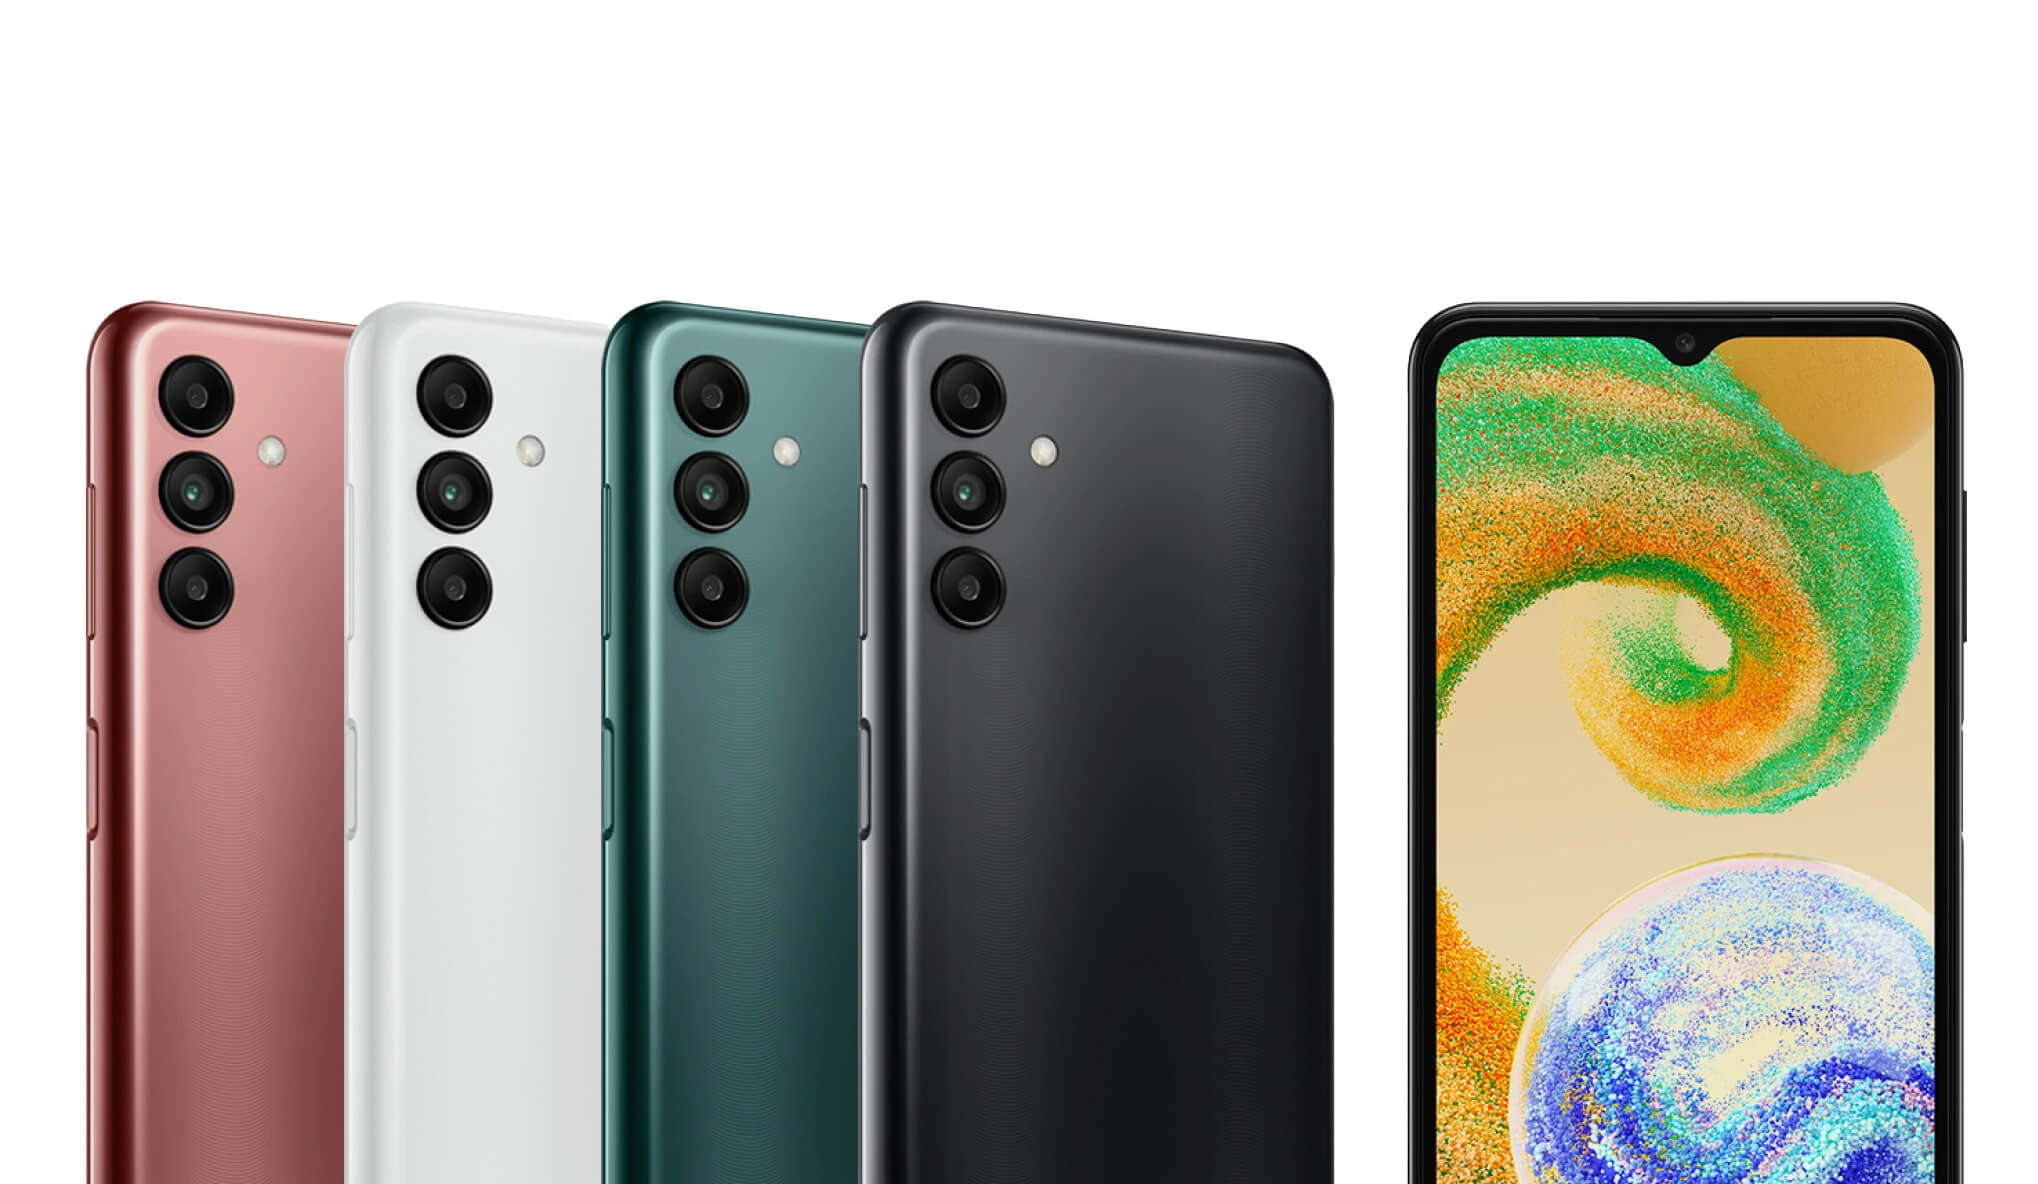
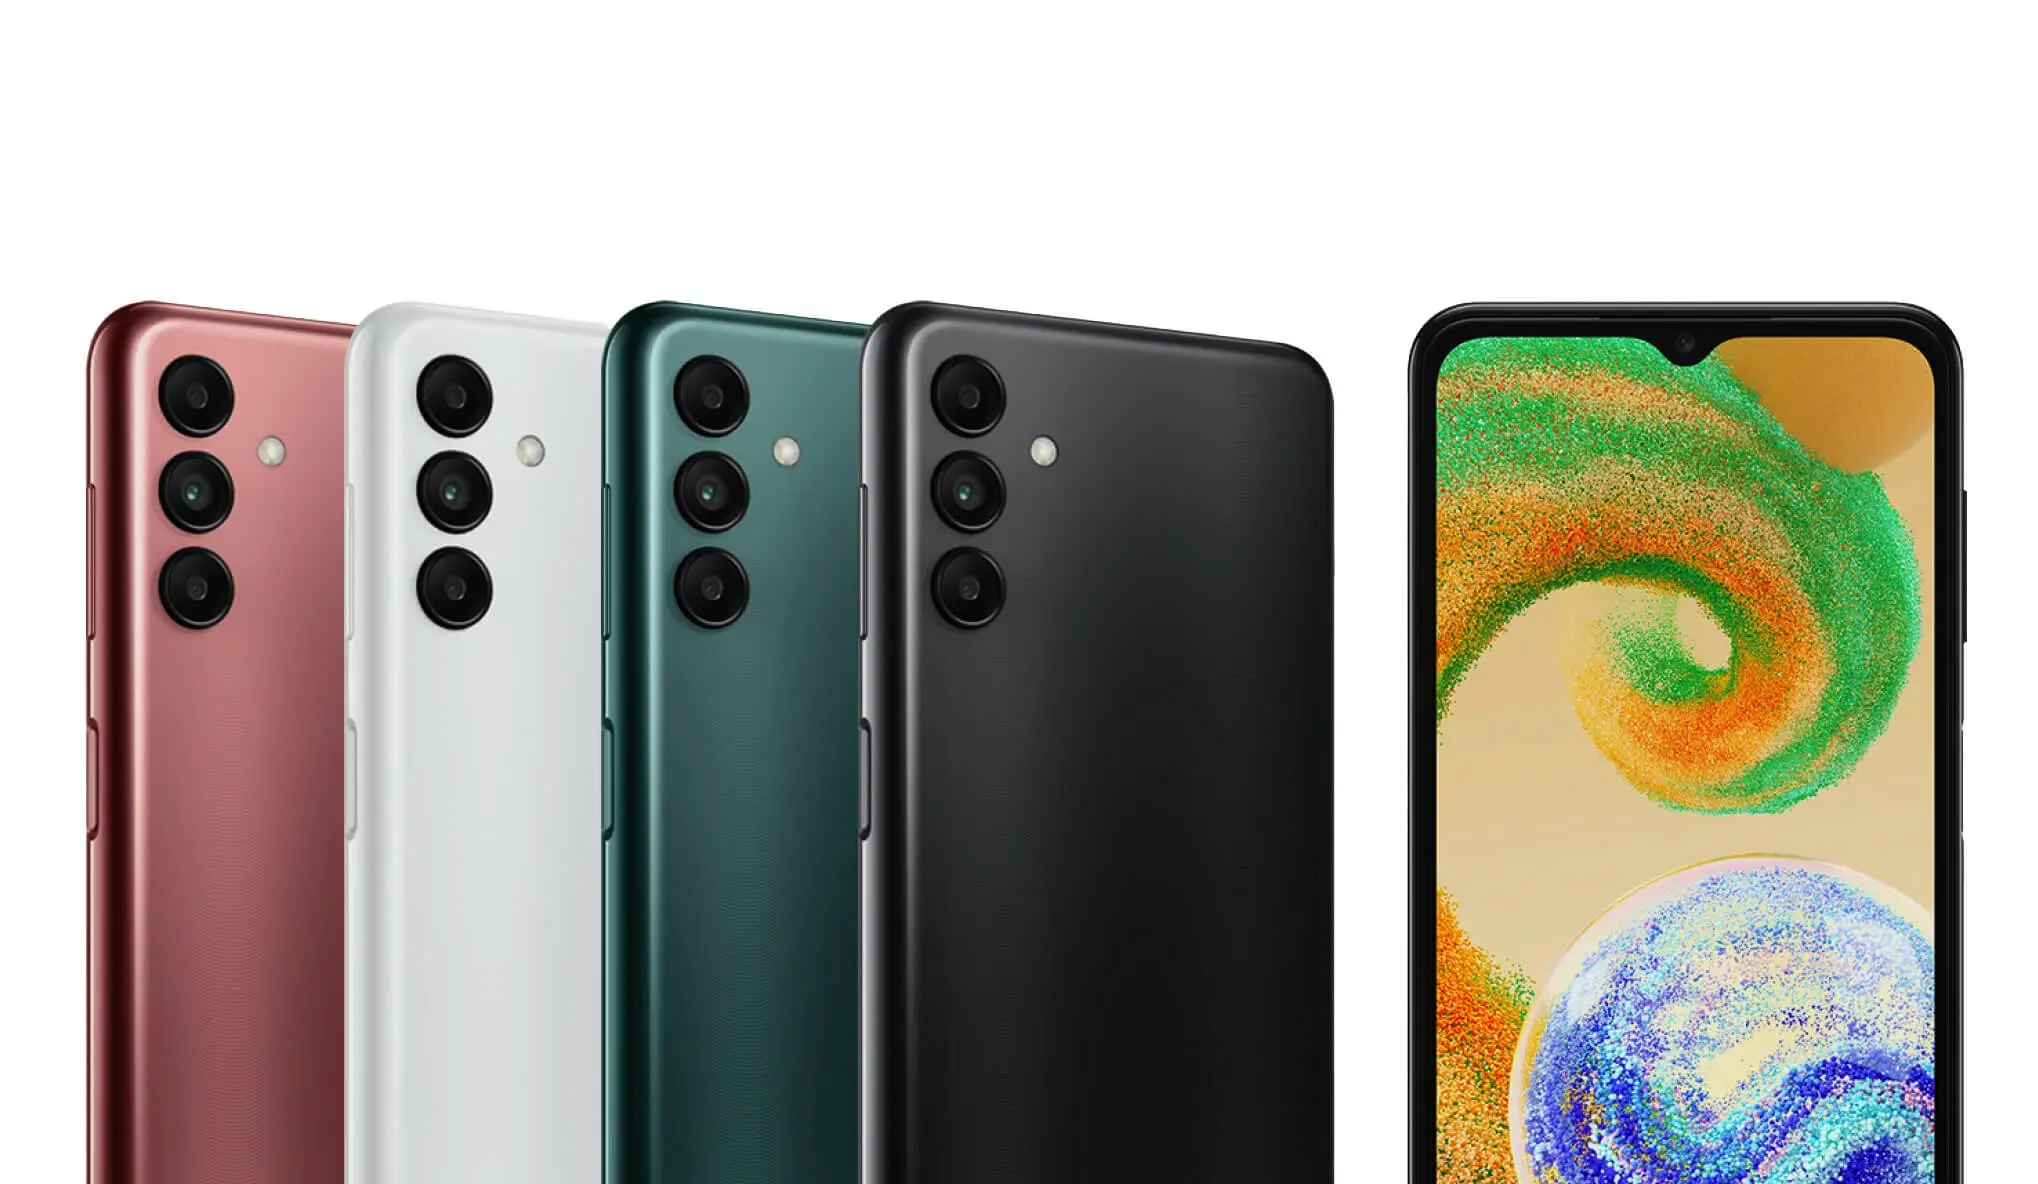
Самсунги а также сжал изображения

Changed region(s): [[0.6801, 0.2812, 0.9583, 0.6875], [0.711, 0.75, 0.9583, 1.0]]

diff --git a/pages/product/[id].vue b/pages/product/[id].vue
@@ -78,6 +78,13 @@ const descriptions = ref([
     img: "/images/airpods.webp",
   },
   {
+    category: "samsung",
+    description:
+      "Купить Samsung в Москве и Рязани с бесплатной доставкой. Низкие цены. Оригинал. В наличии. Гарантия.",
+    title: "Купить Samsung в РК-Тек по выгодной цене",
+    img: "/images/samsung.webp",
+  },
+  {
     category: "dyson",
     description:
       "Купить Dyson в Москве и Рязани с бесплатной доставкой. Низкие цены. Оригинал. В наличии. Гарантия.",

diff --git a/stores/categories.js b/stores/categories.js
@@ -79,6 +79,15 @@ export const useCategories = defineStore('categories', {
         ],
       },
       {
+        name: 'Samsung',
+        ico: '/icons/samsung.svg',
+        style: { width: '80' },
+        link: '/product/samsung',
+        img: '/images/samsung.webp',
+        uuid: 'ccc52d81-7c9c-4619-87ff-6ed7e363fea2',
+        isName: false,
+      },
+      {
         name: 'Dyson',
         ico: '/icons/dyson.svg',
         style: { height: '70', width: '100' },
